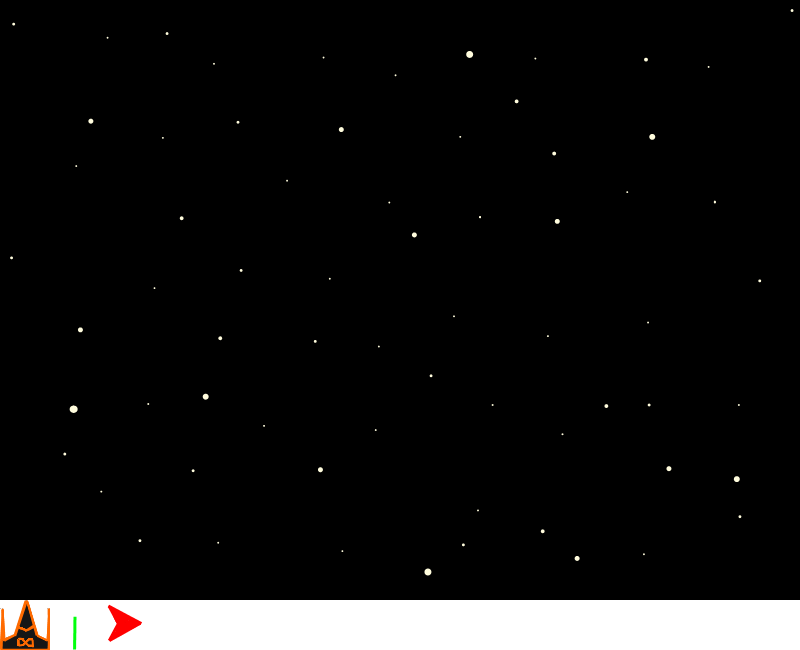
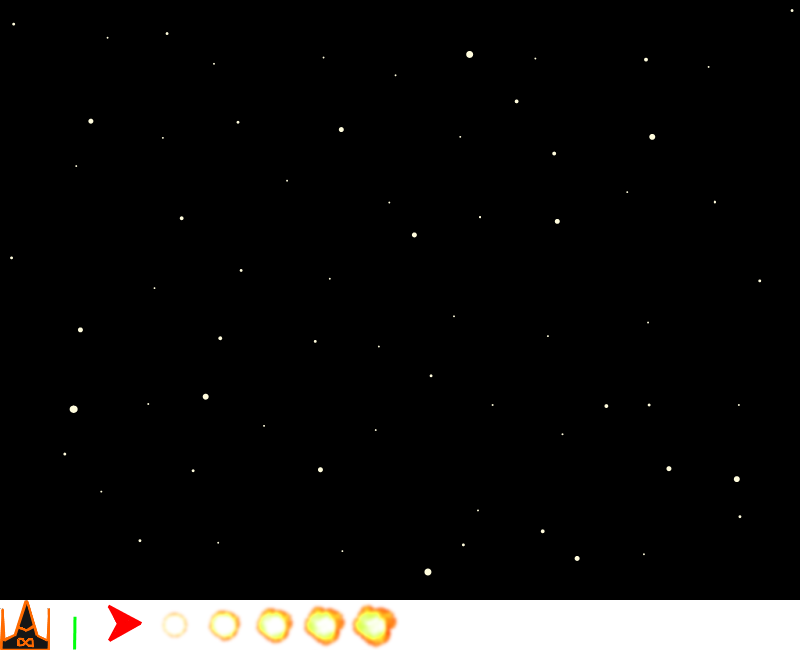
Explosions
On enemy death

Changed region(s): [[0.1875, 0.9231, 0.5, 1.0]]

diff --git a/public/js/game.js b/public/js/game.js
@@ -6,7 +6,7 @@ var SCREEN_H = 600;
 
 // ENEMY1
 // Goes from a corner of the screen to the lower part of the screen on the other part
-var E1_FRAMES = 90; // frames required for the whole path
+var E1_FRAMES = 120; // frames required for the whole path
 var E1_STARTX = -50; // starting x and y coords
 var E1_STARTY = -50;
 var E1_TARGETX = SCREEN_W+50; // target x and y coords
@@ -28,8 +28,9 @@ Crafty.init(SCREEN_W, SCREEN_H);
 Crafty.sprite(50, "assets/back.png", {
 	space: [0,0, 16, 12], // the space background
 	ship: [0, 12], // the spaceship
-	pewpewlazors: [1, 12] ,// the pewpew
-	enemy1: [2, 12] // the first enemy
+	pewpewlazors: [1, 12], // the pewpew
+	enemy1: [2, 12], // the first enemy
+	explosion: [3, 12]
 	});
 	
 // Represents an image that will reset up the screen once it reached the bottom
@@ -42,6 +43,19 @@ Crafty.c("ScreenScrolldown", {
 				this.y = -SCREEN_H;
 		});
 		
+	}
+});
+
+Crafty.c("Explosion", {
+	init: function() {
+		this.requires("2D, Canvas, SpriteAnimation, explosion, Tween")
+			.animate('explosion', 3, 12, 7)
+			.animate('explosion', 10, 0)
+			.attr({alpha:1.0})
+			.tween({alpha:0.0}, 100)
+			.timeout(function() {
+				this.destroy();
+			}, 400);
 	}
 });
 
@@ -70,7 +84,7 @@ Crafty.c("GoUp", {
 	init: function() {
 		this.bind("EnterFrame", function() {
 			this.y -= 15;
-			if (this.y + this.h < 0)
+			if (this.y + this.h * 2 < 0)
 				this.destroy();
 		});
 	}
@@ -151,6 +165,9 @@ Crafty.c("Living", {
 			this.onDeath();
 	},
 	onDeath: function() {
+		var explosion = Crafty.e("Explosion").attr({z:9000});
+		explosion.x = this.x - explosion.w/2;
+		explosion.y = this.y - explosion.h/2;
 		this.destroy();
 	}
 });
@@ -185,7 +202,10 @@ Crafty.c("Spaceship", {
 // Enemy component
 Crafty.c("Enemy", {
 	init: function() {
-		this.requires("2D, Canvas, FollowPath, Collision, Living").setMaxHealth(2);
+		this.requires("2D, Canvas, FollowPath, Collision, Living")
+			.setMaxHealth(2)
+			.origin("center");
+
 	}
 });
 
@@ -195,7 +215,6 @@ var background2 = Crafty.e("ParralaxBackground").y = -SCREEN_H;
 
 // Create the player space shit
 var player = Crafty.e("Spaceship");
-console.log(player);
 
 // Spawns the specified enemy.
 function spawnEnemy(name) {
